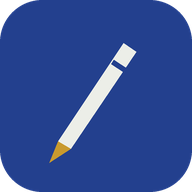
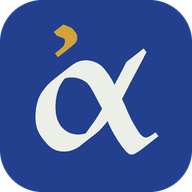
Publica o build bef2b79
Claude-Session: https://claude.ai/code/session_01PNrYVStNeqb4gU3YAzax1R

Changed region(s): [[0.1562, 0.2188, 0.8438, 0.8438], [0.2812, 0.125, 0.4062, 0.3125]]

diff --git a/sw.js b/sw.js
@@ -1,6 +1,6 @@
 // Kálamos — service worker: funciona offline depois que os dados foram abertos ou baixados.
 // Os caminhos são relativos ao escopo, então funciona na raiz ou numa subpasta (GitHub Pages).
-const VERSION = "kalamos-v2"; // v2: descarta caches antigos (a NVI agora só circula criptografada)
+const VERSION = "kalamos-v3"; // v3: ícone novo (alfa); v2 descartou caches com a NVI aberta
 const BASE = new URL(self.registration.scope).pathname; // ex.: "/" ou "/kalamos/"
 const SHELL = ["", "index.html", "manifest.webmanifest", "kalamos.svg", "icons/icon-192.png"].map((p) => BASE + p);
 
